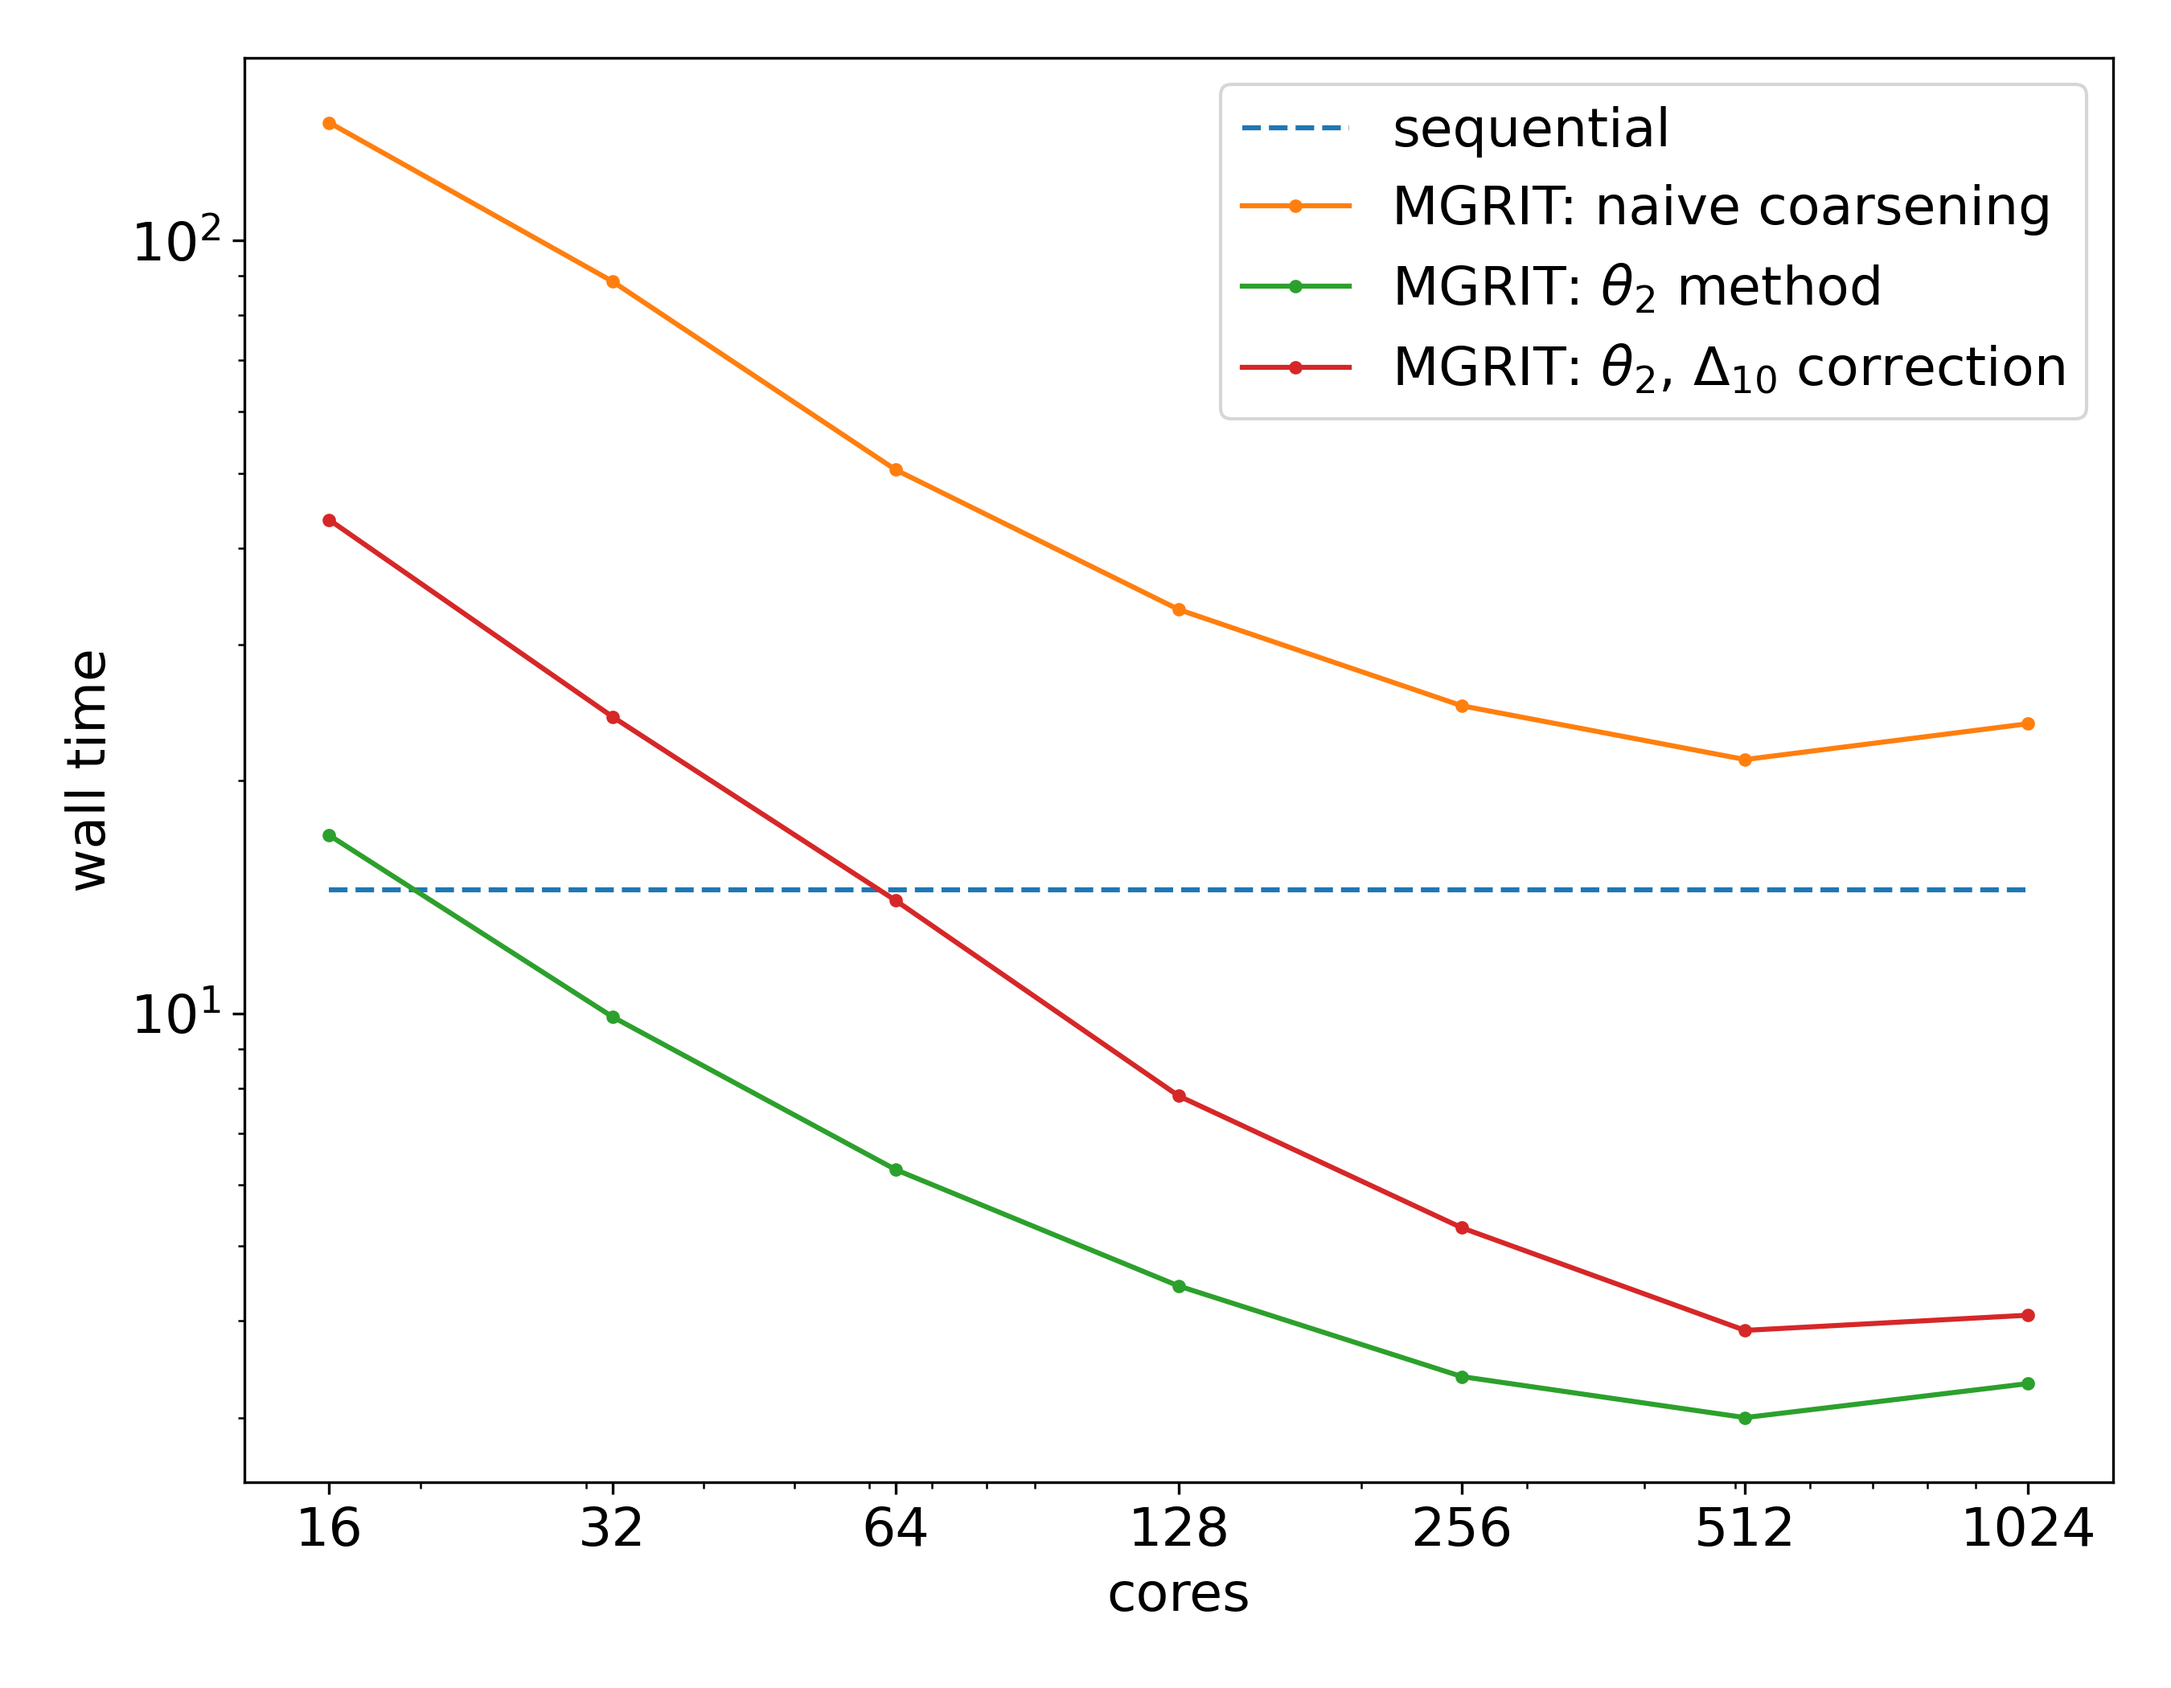
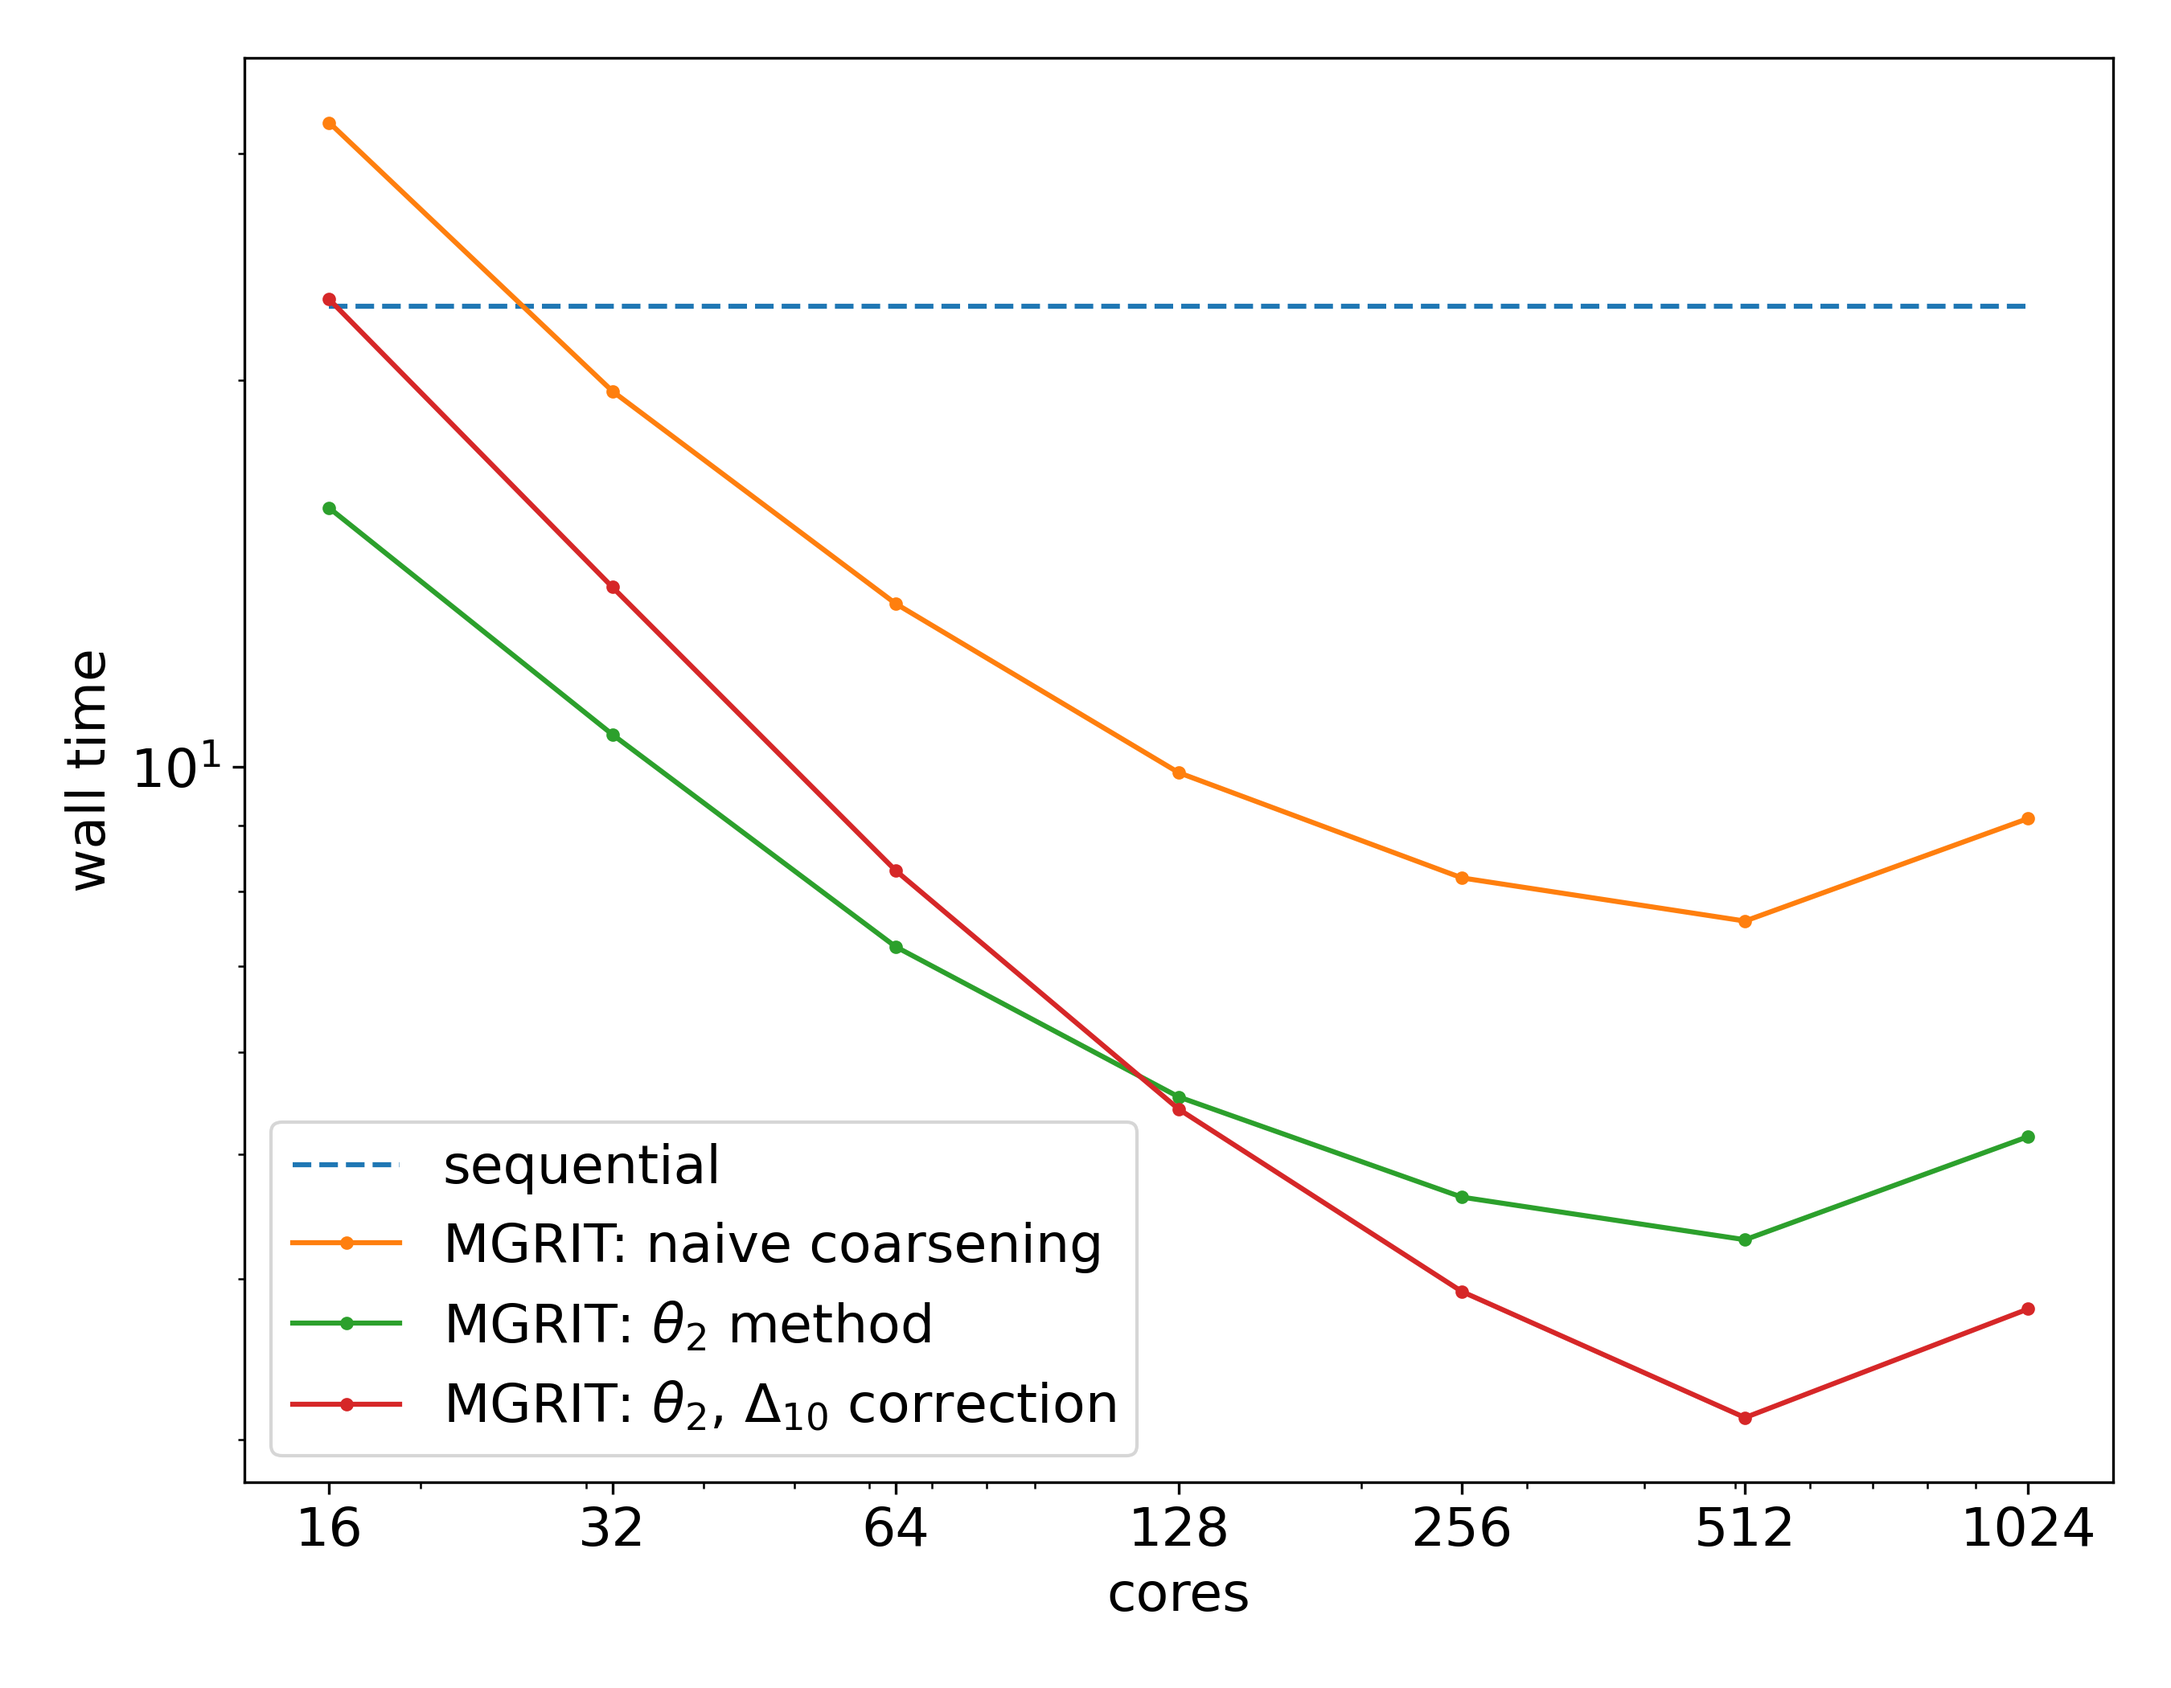
made coarse grid propagation of LVs an optional parameter Updated strong scaling study with better parameters for each solver Added strong scaling study for

diff --git a/drivers/drive-ks.cpp b/drivers/drive-ks.cpp
@@ -89,6 +89,7 @@ public:
    int newton_iters;
    int DeltaRank;
    int DeltaLevel;
+   bool cglv;
    bool useDelta;
    bool useTheta;
    int stages;
@@ -109,6 +110,7 @@ public:
               bool useDelta_,
               int DeltaLevel_,
               int DeltaRank_,
+              bool cglv_,
               bool useTheta_,
               int newton_iters_,
               int max_levels,
@@ -203,7 +205,7 @@ public:
 };
 
 // Braid App Constructor
-MyBraidApp::MyBraidApp(MPI_Comm comm_t_, int rank_, double tstart_, double tstop_, int ntime_, int cfactor_, int cfactor0_, bool useDelta_, int DeltaLevel_, int DeltaRank_, bool useTheta_, int newton_iters_, int max_levels, int nx, double length, int order, const VEC &initial_data_)
+MyBraidApp::MyBraidApp(MPI_Comm comm_t_, int rank_, double tstart_, double tstop_, int ntime_, int cfactor_, int cfactor0_, bool useDelta_, int DeltaLevel_, int DeltaRank_, bool cglv_, bool useTheta_, int newton_iters_, int max_levels, int nx, double length, int order, const VEC &initial_data_)
     : BraidApp(comm_t_, tstart_, tstop_, ntime_)
 {
    rank = rank_;
@@ -213,6 +215,7 @@ MyBraidApp::MyBraidApp(MPI_Comm comm_t_, int rank_, double tstart_, double tstop
    useDelta = useDelta_;
    DeltaRank = DeltaRank_;
    DeltaLevel = DeltaLevel_;
+   cglv = cglv_;
    useTheta = useTheta_;
 
    switch (order)
@@ -423,7 +426,7 @@ int MyBraidApp::Step(braid_Vector u_,
    VEC utmp(u->state);
 
    // if (!useDelta || level < DeltaLevel)
-   if (!useDelta || level < DeltaLevel || coarseGrid) // default behavior, no Psi propagation
+   if (!useDelta || level < DeltaLevel || (coarseGrid && !cglv)) // default behavior, no Psi propagation
    {
       utmp = baseStep(u->state, u->guess, dt, pstatus);
       if (f)
@@ -764,7 +767,7 @@ int main(int argc, char *argv[])
    int max_levels = 4;
    int nrelax = 1;
    int nrelax0 = 1;
-   double tol = 1e-6;
+   double tol = 1e-9;
    int cfactor = 4;
    int cf0 = 4;
    int max_iter = 25;
@@ -777,6 +780,7 @@ int main(int argc, char *argv[])
    bool wrapperTests = false;
    bool output = false;
    int ord = 2;
+   bool cglv = false;
 
    // KS parameters
    double len = 64;
@@ -813,6 +817,7 @@ int main(int argc, char *argv[])
             printf("  -fmg        : use FMG cycling\n");
             printf("  -Delta      : use delta correction\n");
             printf("  -Deltalvl   : delta correction is deferred until this level\n");
+            printf("  -cglv       : Propagate Lyapunov Vectors on the coarsest grid\n");
             printf("  -rank       : set rank of delta correction (Default: 3)\n");
             printf("  -theta      : use first order theta method\n");
             printf("  -out        : write output to file (for visualization)\n");
@@ -901,6 +906,11 @@ int main(int argc, char *argv[])
          arg_index++;
          DeltaLvl = atoi(argv[arg_index++]);
       }
+      else if (strcmp(argv[arg_index], "-cglv") == 0)
+      {
+         arg_index++;
+         cglv = true;
+      }
       else if (strcmp(argv[arg_index], "-rank") == 0)
       {
          arg_index++;
@@ -944,7 +954,7 @@ int main(int argc, char *argv[])
    VEC u0 = FourierMode(1, nx, len);
 
    // set up app structure
-   MyBraidApp app(MPI_COMM_WORLD, rank, tstart, tstop, nt, cfactor, cf0, useDelta, DeltaLvl, DeltaRank, useTheta, newton_iters, max_levels, nx, len, ord, u0);
+   MyBraidApp app(MPI_COMM_WORLD, rank, tstart, tstop, nt, cfactor, cf0, useDelta, DeltaLvl, DeltaRank, cglv, useTheta, newton_iters, max_levels, nx, len, ord, u0);
 
    // wrapper tests
    if (wrapperTests)

diff --git a/drivers/vis_ks.py b/drivers/vis_ks.py
@@ -31,7 +31,7 @@ if __name__=="__main__":
     cf = ceil(len(u)/nt)
     l = nx
     T_lyap = np.log(10)/0.1
-    Tf = 4*T_lyap
+    Tf = 8*T_lyap
 
     # plot trajectories
     ratio = (5, 5)
@@ -41,8 +41,8 @@ if __name__=="__main__":
     extent = (0, l, Tf/T_lyap, 0)
     fig, axs = plt.subplots(1, 1, figsize=(ratio[0], ratio[1]))
     interp = "bilinear"
-    axs.imshow(integrate(u[::cf*stride]), cmap=cmap, extent=extent, aspect="auto", interpolation=interp)
-    # axs.imshow(u[::cf*stride], cmap=cmap, extent=extent, aspect="auto", interpolation=interp)
+    # axs.imshow(integrate(u[::cf*stride]), cmap=cmap, extent=extent, aspect="auto", interpolation=interp)
+    axs.imshow(u[::cf*stride], cmap=cmap, extent=extent, aspect="auto", interpolation=interp)
     axs.set_ylabel("$t_\lambda$")
     fig.tight_layout()
     axs.set_xlabel("u", fontsize=32)
